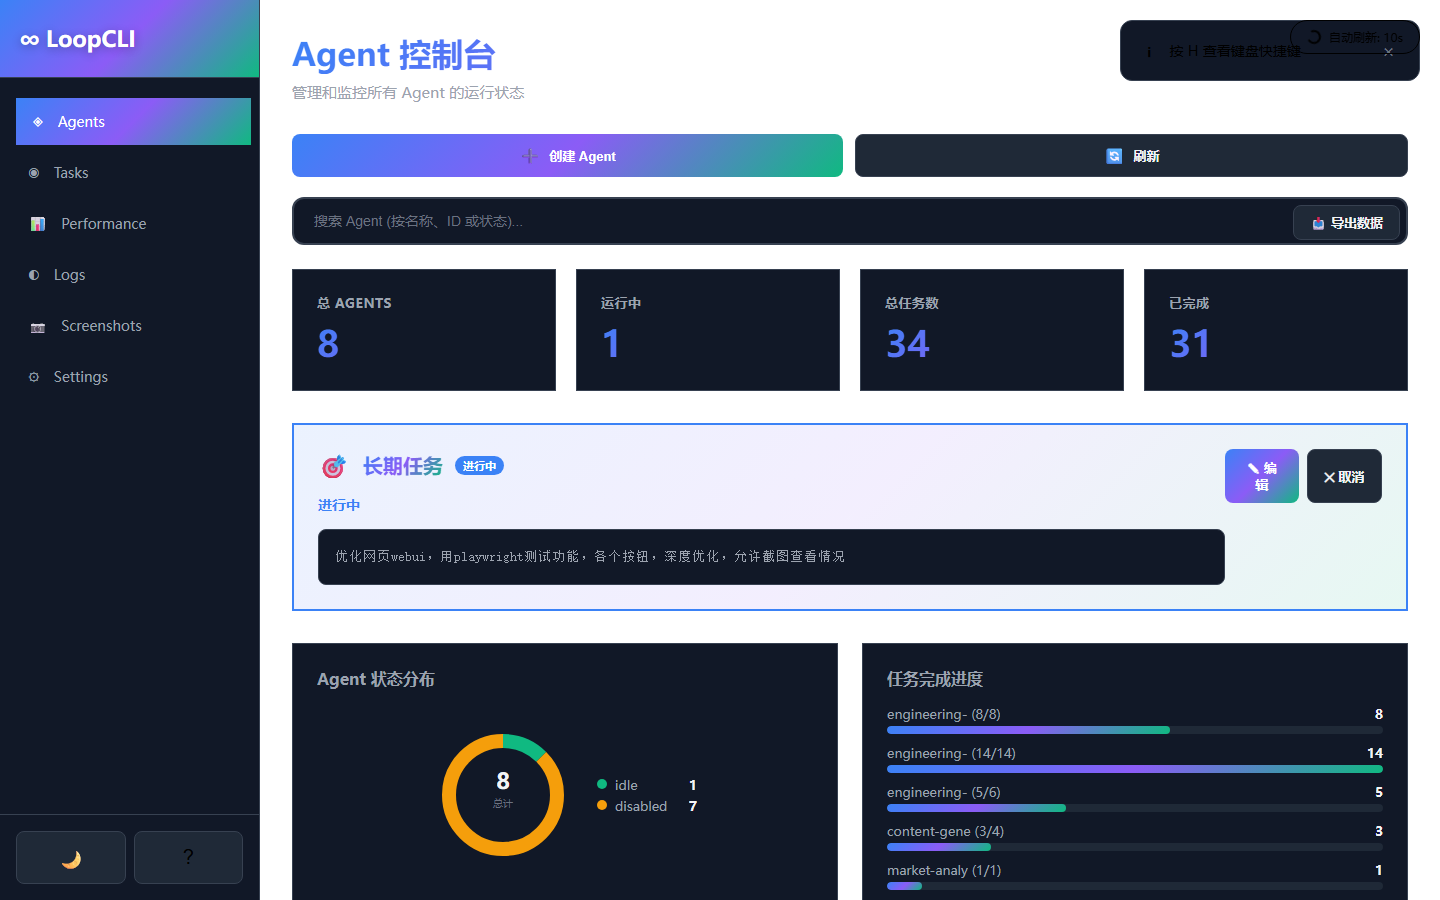
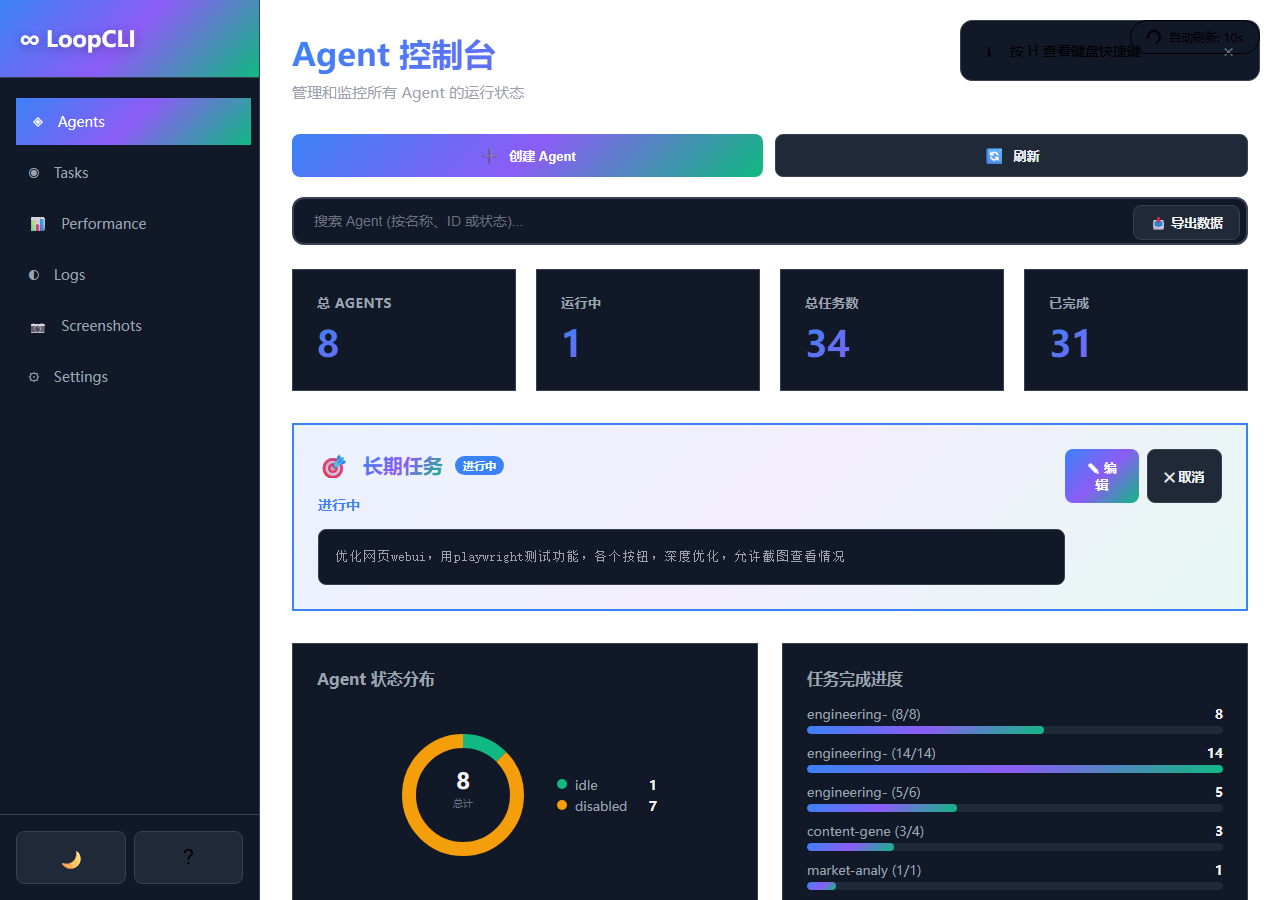
auto: loopcli sync 2026-05-22 21:25

diff --git a/main/webui/index.html b/main/webui/index.html
@@ -1047,11 +1047,11 @@ body {
         </div>
 
         <div class="action-bar" style="display: flex; gap: 12px; margin-bottom: 20px;">
-          <button class="btn btn-primary" onclick="showCreateAgentModal()" style="display: flex; align-items: center; gap: 8px;">
+          <button class="btn btn-primary" id="create-agent-btn" onclick="showCreateAgentModal()" style="display: flex; align-items: center; gap: 8px;">
             <span style="font-size: 16px;">➕</span>
             <span>创建 Agent</span>
           </button>
-          <button class="btn btn-secondary" onclick="refreshAgents()" style="display: flex; align-items: center; gap: 8px;">
+          <button class="btn btn-secondary" id="refresh-btn" onclick="refreshAgents()" style="display: flex; align-items: center; gap: 8px;">
             <span style="font-size: 16px;">🔄</span>
             <span>刷新</span>
           </button>
@@ -1059,7 +1059,7 @@ body {
 
         <div class="search-bar">
           <input type="text" class="search-input" id="agent-search" placeholder="搜索 Agent (按名称、ID 或状态)...">
-          <button class="btn btn-secondary" onclick="exportAgentsData()" style="position: absolute; right: 8px; top: 8px; padding: 8px 16px;">
+          <button class="btn btn-secondary" id="export-btn" onclick="exportAgentsData()" style="position: absolute; right: 8px; top: 8px; padding: 8px 16px;">
             📥 导出数据
           </button>
         </div>
@@ -1112,6 +1112,15 @@ body {
           </div>
         </div>
 
+        
+        <div class="agents-grid" id="agents-grid">
+          <div class="loading">
+            <div class="spinner"></div>
+            <div>加载 Agents...</div>
+          </div>
+        </div>
+      </div>
+
         <!-- 可视化图表区域（SVG 美化版） -->
         <div style="display: grid; grid-template-columns: repeat(auto-fit, minmax(300px, 1fr)); gap: 24px; margin-bottom: 32px;">
           <div style="background: var(--surface); border: 1px solid var(--border); border-radius: var(--radius); padding: 24px;">
@@ -1132,14 +1141,6 @@ body {
           </div>
           <div id="usage-content" style="color: var(--text2); font-size: 14px;">加载中...</div>
         </div>
-
-        <div class="agents-grid" id="agents-grid">
-          <div class="loading">
-            <div class="spinner"></div>
-            <div>加载 Agents...</div>
-          </div>
-        </div>
-      </div>
 
       <!-- Tasks 页面 -->
       <div class="page" id="page-tasks">

diff --git a/main/memory/thoughts.md b/main/memory/thoughts.md
@@ -1,5 +1,16 @@
 # LoopCLI 记忆
 
+## 2026-05-22 轮次327
+
+**WebUI 布局优化 + Playwright全面测试**：
+- **Agent卡片前置**：原来Agent列表在页面最底部（图表和用量之后），用户需要大量滚动。重排后顺序：统计卡片→长期任务→Agent列表→图表→用量统计，视口内可见2个Agent卡片（之前0个）
+- **按钮ID补全**：给创建Agent、刷新、导出按钮添加了id属性，便于测试和交互
+- **Playwright测试38/38全部通过**：导航6页、Agent卡片、搜索、所有按钮、性能指标、设置主题、6个API端点、长期任务卡片
+- **确认非bug项**：Token格式实际正确(266,973,354)、任务页空是因tasks.json无数据、Token趋势图有渲染但需滚动查看
+- **性能页结构**：page-performance与page-agents分离正确，full_page截图会包含隐藏页面导致分析误导
+
+**经验**：Playwright full_page=True会截取所有隐藏页面元素，分析截图时要用viewport-only截图。测试按钮时用page.evaluate()调用JS关闭函数比找DOM元素更可靠。
+
 ## 2026-05-22 轮次324
 
 **WebUI 深度优化 — 性能页面修复**：
